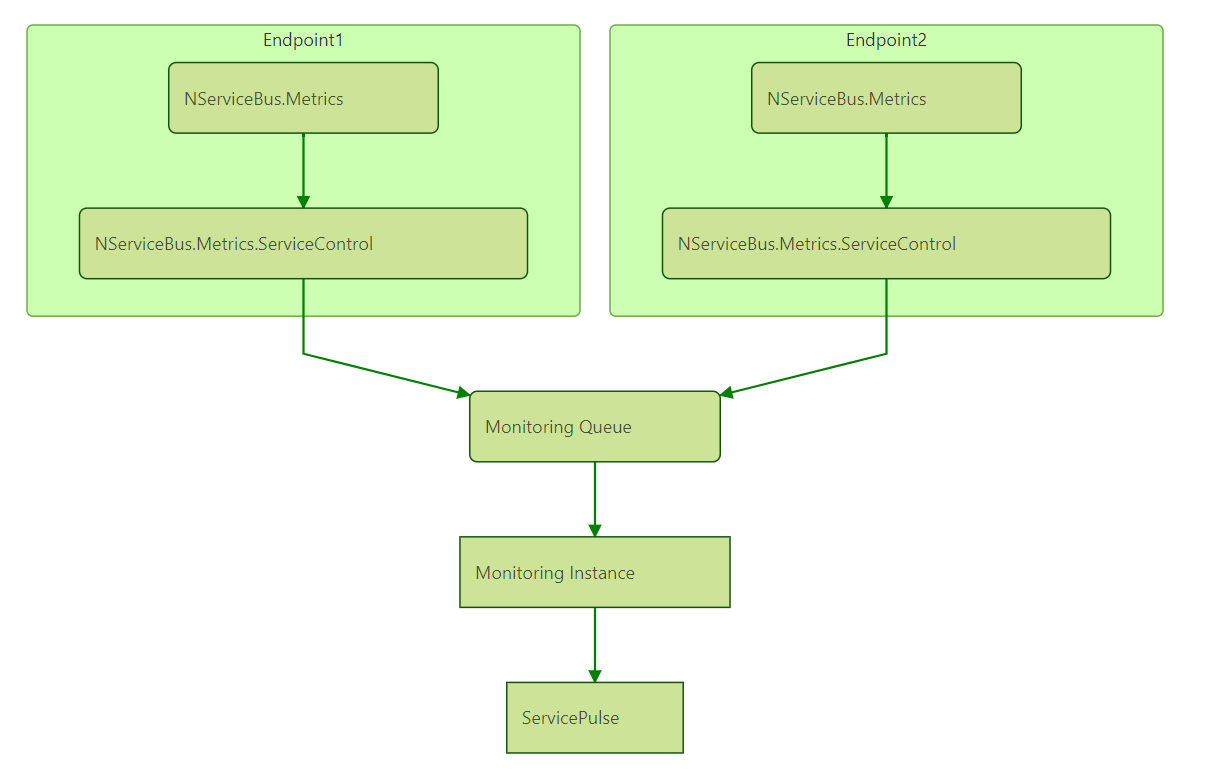
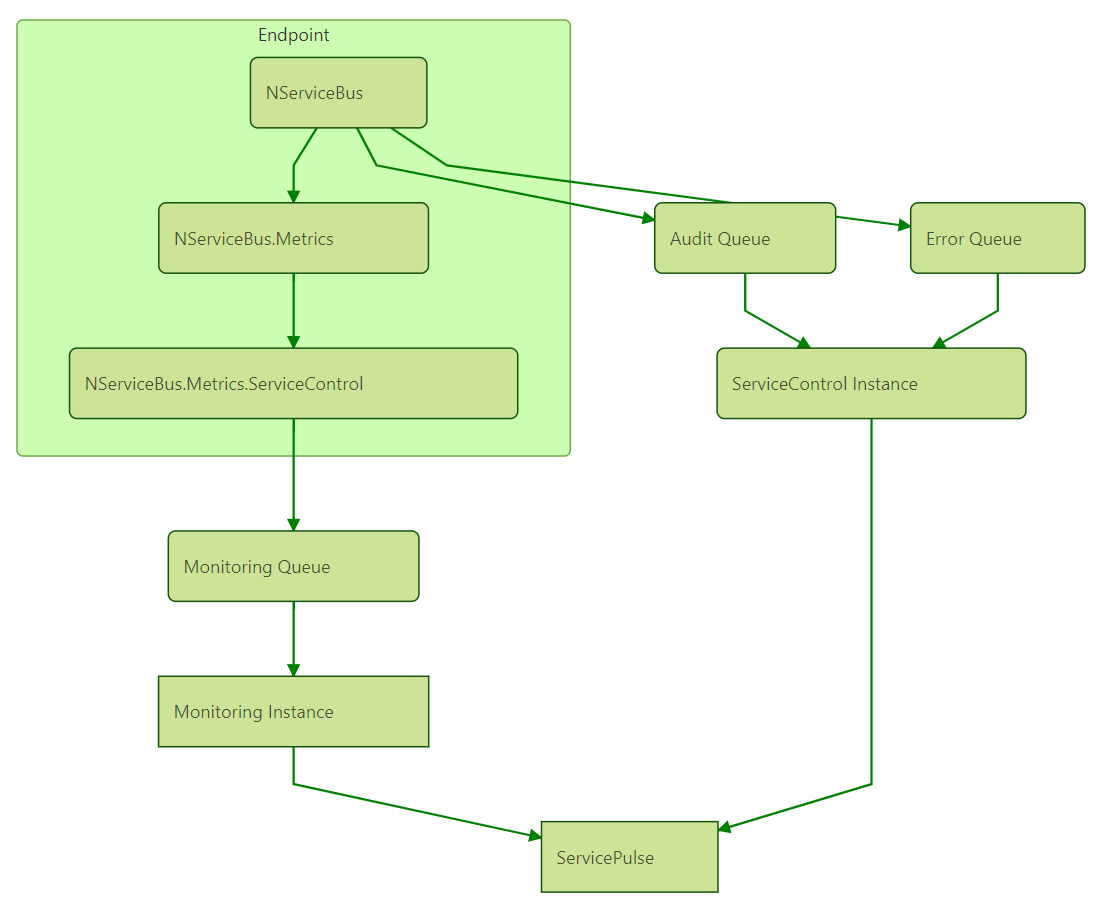
Include SC instance in component overview

diff --git a/tutorials/monitoring/tutorial.md b/tutorials/monitoring/tutorial.md
@@ -18,22 +18,25 @@ The following diagram shows all of the components that are involved in monitorin
 ```mermaid
 graph TD
 
-subgraph Endpoint1
-  metrics1(NServiceBus.Metrics) --> plugin1
-  plugin1(NServiceBus.Metrics.ServiceControl)
+subgraph Endpoint
+  nsb(NServiceBus) --> metrics
+  metrics(NServiceBus.Metrics) --> plugin
+
+  plugin(NServiceBus.Metrics.ServiceControl)
 end
 
-subgraph Endpoint2
-  metrics2(NServiceBus.Metrics) --> plugin2
-  plugin2(NServiceBus.Metrics.ServiceControl) 
-end
+plugin --> q(Monitoring Queue)
 
-plugin1 --> q(Monitoring Queue)
-plugin2 --> q(Monitoring Queue)
+nsb --> auditQ(Audit Queue)
+nsb --> errorQ(Error Queue)
+
+auditQ --> scinstance(ServiceControl Instance)
+errorQ --> scinstance
 
 q --> scmonitoring[Monitoring Instance]
 
 scmonitoring --> pulse[ServicePulse]
+scinstance --> pulse
 ```
 
 ![the above renders like this](component-overview.png)
